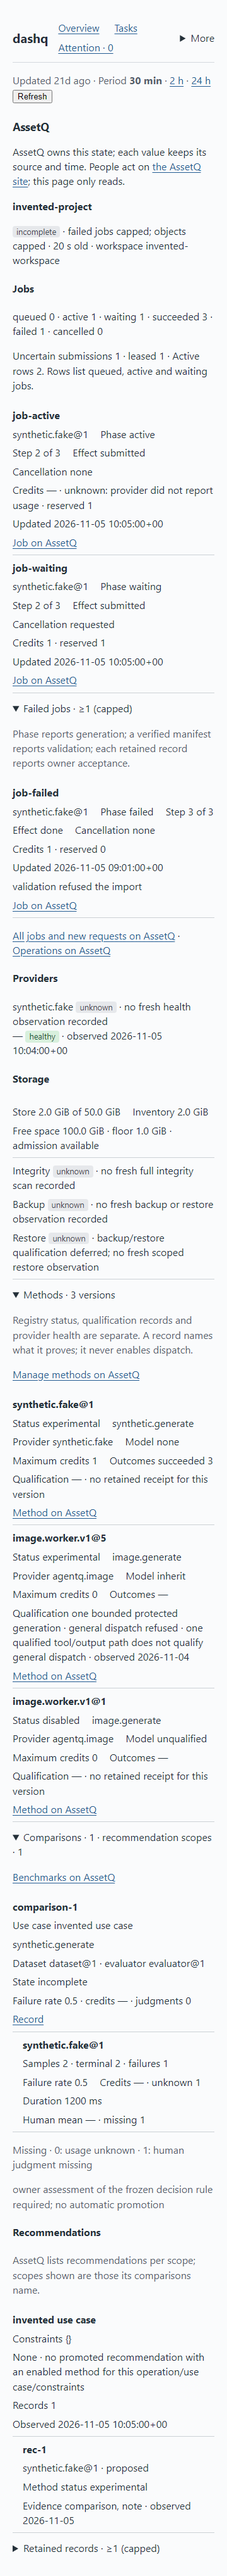
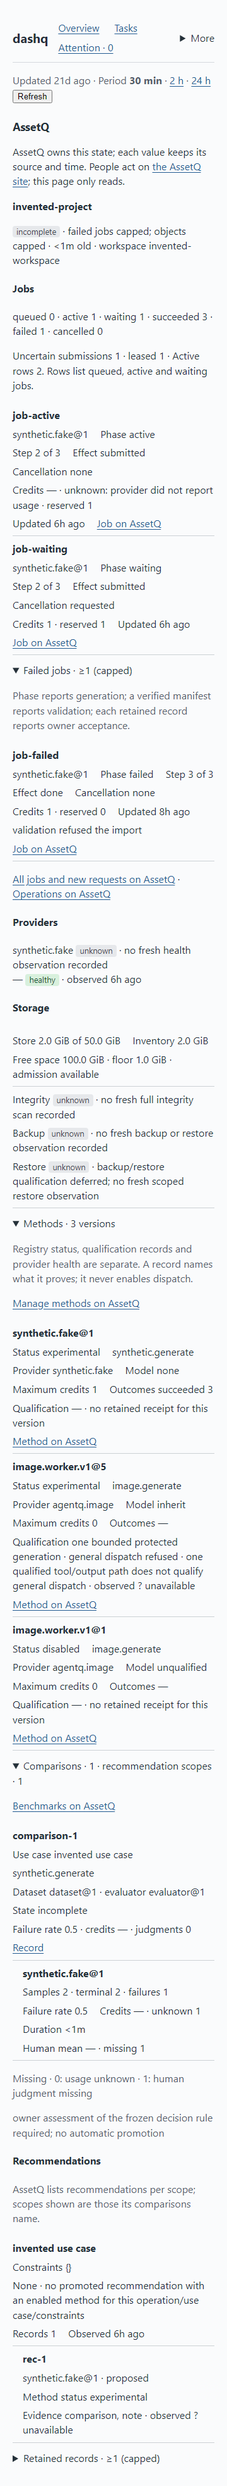
Fix AssetQ coverage counts and shared time display
Keep recommendation scope counts unknown or capped with their comparison coverage. Parse producer timestamps before using the shared relative/exact renderer, preserve unavailable times, and use the common duration format.

Update Pipe provisioning and live-readback evidence; retain metadata-only GET and browser regression checks.

Task: https://github.com/taskqorg/dashq/issues/246

diff --git a/assets/style.css b/assets/style.css
@@ -378,7 +378,6 @@ body[data-view="/assets"] {max-width:1024px;box-sizing:border-box;padding:20px;b
 #assets .asset-sub {padding-left:1em}
 #assets .asset-group {margin:.75em 0}
 #assets summary {cursor:pointer;min-height:24px}
-#assets .asset-receipt:empty {display:none}
 body[data-view="/fleet"] #fleet {display:block}
 #fleet {overflow-wrap:anywhere}
 #fleet .fleet-row {display:flex;flex-wrap:wrap;gap:.4em 1.2em;padding:.5em 0;border-bottom:1px solid light-dark(#ccd1d5,#555e66);font-variant-numeric:tabular-nums}

diff --git a/src/assetq.rs b/src/assetq.rs
@@ -344,11 +344,45 @@ fn bytes(v: &Value) -> String {
     })
 }
 
-fn state(v: &Value) -> String {
+/// AssetQ sends PostgreSQL timestamptz text; keep its offset and discard only fractional seconds.
+fn timestamp(v: &Value) -> Option<u64> {
+    if let Some(t) = crate::findings::time(v) { return Some(t) }
+    let s = v.as_str()?;
+    let head = s.get(..19)?.replace(' ', "T");
+    let t = source::iso_secs(&head)?;
+    if source::iso(t).get(..19)? != head { return None }
+    let mut tail = s.get(19..)?;
+    if let Some(fraction) = tail.strip_prefix('.') {
+        let n = fraction.bytes().take_while(u8::is_ascii_digit).count();
+        if n == 0 { return None }
+        tail = &fraction[n..];
+    }
+    let offset = if tail == "Z" { 0 } else {
+        if !matches!(tail.len(), 3 | 6) || !matches!(tail.get(..1)?, "+" | "-") { return None }
+        if !tail[1..].bytes().all(|b| b.is_ascii_digit() || b == b':') { return None }
+        let h = tail.get(1..3)?.parse::<i64>().ok()?;
+        let m = if tail.len() == 6 {
+            if tail.get(3..4)? != ":" { return None }
+            tail.get(4..6)?.parse::<i64>().ok()?
+        } else { 0 };
+        if !(0..=23).contains(&h) || !(0..=59).contains(&m) { return None }
+        (h * 3600 + m * 60) * if tail.starts_with('-') { -1 } else { 1 }
+    };
+    u64::try_from(i64::try_from(t).ok()? - offset).ok()
+}
+
+fn stamp(v: &Value, now: u64) -> String {
+    match timestamp(v) {
+        Some(t) => format!("<time data-at=\"{t}\">{}</time>", esc(&crate::page::at(&json!(t), now))),
+        None => esc(&crate::page::at(&Value::Null, now)),
+    }
+}
+
+fn state(v: &Value, now: u64) -> String {
     let s = v["state"].as_str().unwrap_or("unknown");
     let class = match s { "ok" | "healthy" | "observed" | "verified" => "ok", "unknown" | "stale" | "unconfirmed" | "incomplete" => "unknown", _ => "warn" };
     let reason = v["reason"].as_str().map_or(String::new(), |r| format!(" · {}", esc(r)));
-    let at = v["observed_at"].as_str().map_or(String::new(), |t| format!(" · observed {}", esc(t)));
+    let at = if v["observed_at"].is_null() { String::new() } else { format!(" · observed {}", stamp(&v["observed_at"], now)) };
     format!("<span class=\"s {class}\">{}</span>{reason}{at}", esc(s))
 }
 
@@ -356,37 +390,37 @@ fn link(href: &Value, label: &str) -> String {
     href.as_str().filter(|h| h.starts_with("https://")).map_or(String::new(), |h| format!("<a href=\"{}\" rel=\"noreferrer\">{label}</a>", esc(h)))
 }
 
-fn job_rows(w: &mut String, p: &Value) {
+fn job_rows(w: &mut String, p: &Value, now: u64) {
     let rows = p["jobs"]["rows"].as_array().cloned().unwrap_or_default();
     if rows.is_empty() {
         let text = if p["source"]["state"] == "ok" { "No queued, active or waiting jobs." } else { "Active jobs unknown · see the source state above." };
         let _ = write!(w, "<p>{text}</p>");
     }
-    for j in &rows { job_row(w, j); }
+    for j in &rows { job_row(w, j, now); }
 }
 
-fn job_row(w: &mut String, j: &Value) {
+fn job_row(w: &mut String, j: &Value, now: u64) {
     let steps = j["steps"].as_array().map_or(0, Vec::len);
     let step = j["step"].as_u64().map_or_else(|| "—".to_string(), |s| format!("{} of {steps}", s + 1));
     let usage = if j["usage"]["credits"].is_null() { format!("— · unknown: {}", j["usage"]["unknown_reason"].as_str().map_or("not reported".into(), esc)) } else { val(&j["usage"]["credits"]) };
-    let _ = write!(w, "<div class=\"asset-row\"><strong>{}</strong><span>{}</span><span>Phase {}</span><span>Step {step}</span><span>Effect {}</span><span>Cancellation {}</span><span>Credits {usage} · reserved {}</span><span>Updated {}</span>", val(&j["id"]), val(&j["method"]), val(&j["phase"]), val(&j["effect"]), val(&j["cancel"]), val(&j["reserved_credits"]), val(&j["updated_at"]));
+    let _ = write!(w, "<div class=\"asset-row\"><strong>{}</strong><span>{}</span><span>Phase {}</span><span>Step {step}</span><span>Effect {}</span><span>Cancellation {}</span><span>Credits {usage} · reserved {}</span><span>Updated {}</span>", val(&j["id"]), val(&j["method"]), val(&j["phase"]), val(&j["effect"]), val(&j["cancel"]), val(&j["reserved_credits"]), stamp(&j["updated_at"], now));
     if !j["reason"].is_null() { let _ = write!(w, "<span>{}</span>", val(&j["reason"])); }
     let _ = write!(w, "<span>{}</span>", link(&j["links"]["record"], "Job on AssetQ"));
     w.push_str("</div>");
 }
 
 /// Failed work with AssetQ's bounded reason; generation, validation and owner acceptance stay separate (AssetQ status `states`).
-fn failed_rows(w: &mut String, p: &Value) {
+fn failed_rows(w: &mut String, p: &Value, now: u64) {
     let rows = p["jobs"]["failed"].as_array().cloned().unwrap_or_default();
     let _ = write!(w, "<details class=\"asset-group\" id=\"assetq-{0}-failed\"><summary id=\"assetq-{0}-failed-summary\">Failed jobs · {1}</summary><p class=\"note\">Phase reports generation; a verified manifest reports validation; each retained record reports owner acceptance.</p>", val(&p["project"]), count(rows.len(), p["coverage"]["failed"].as_str().unwrap_or("unknown")));
     if rows.is_empty() {
         let _ = write!(w, "<p>{}</p>", if p["source"]["state"] == "ok" { "No failed jobs." } else { "Failed jobs unknown · see the source state above." });
     }
-    for j in &rows { job_row(w, j); }
+    for j in &rows { job_row(w, j, now); }
     w.push_str("</details>");
 }
 
-fn storage(w: &mut String, p: &Value) {
+fn storage(w: &mut String, p: &Value, now: u64) {
     let s = &p["store"];
     let f = &s["free_space"];
     let i = &s["physical_inventory"];
@@ -394,10 +428,10 @@ fn storage(w: &mut String, p: &Value) {
         bytes(&s["used_bytes"]), bytes(&s["quota_bytes"]), if s["full"] == true { " · full" } else { "" },
         bytes(&i["object_bytes"]), i["reason"].as_str().map_or(String::new(), |r| format!(" · unknown: {}", esc(r))),
         bytes(&f["available_bytes"]), bytes(&f["floor_bytes"]), val(&f["admission"]), f["reason"].as_str().map_or(String::new(), |r| format!(" · unknown: {}", esc(r))),
-        state(&p["integrity"]), state(&p["backup"]), state(&p["restore"]));
+        state(&p["integrity"], now), state(&p["backup"], now), state(&p["restore"], now));
 }
 
-fn methods(w: &mut String, p: &Value) {
+fn methods(w: &mut String, p: &Value, now: u64) {
     let rows = p["methods"].as_array().cloned().unwrap_or_default();
     let _ = write!(w, "<details class=\"asset-group\" id=\"assetq-{0}-methods\"><summary id=\"assetq-{0}-methods-summary\">Methods · {1}{2}</summary>", val(&p["project"]), count(rows.len(), p["coverage"]["methods"].as_str().unwrap_or("unknown")), if p["coverage"]["methods"] == "unknown" { "" } else { " versions" });
     w.push_str("<p class=\"note\">Registry status, qualification records and provider health are separate. A record names what it proves; it never enables dispatch.</p>");
@@ -407,7 +441,7 @@ fn methods(w: &mut String, p: &Value) {
         let _ = write!(w, "<div class=\"asset-row\"><strong>{}</strong><span>Status {}</span><span>{}</span><span>Provider {}</span><span>Model {}</span><span>Maximum credits {}</span><span>Outcomes {}</span>", val(&m["name"]), val(&m["status"]), val(&m["operation"]), val(&m["provider"]), val(&m["model"]), val(&m["max_credits"]), if outcomes.is_empty() { "—".into() } else { outcomes.join(" · ") });
         if m["qualification"].is_object() {
             let q = &m["qualification"];
-            let _ = write!(w, "<span>Qualification {} · general dispatch {} · {} · observed {}</span>", val(&q["scope"]), val(&q["general_dispatch"]), val(&q["reason"]), val(&q["observed_at"]));
+            let _ = write!(w, "<span>Qualification {} · general dispatch {} · {} · observed {}</span>", val(&q["scope"]), val(&q["general_dispatch"]), val(&q["reason"]), stamp(&q["observed_at"], now));
         } else {
             w.push_str("<span>Qualification — · no retained receipt for this version</span>");
         }
@@ -416,16 +450,17 @@ fn methods(w: &mut String, p: &Value) {
     w.push_str("</details>");
 }
 
-fn comparisons(w: &mut String, p: &Value) {
+fn comparisons(w: &mut String, p: &Value, now: u64) {
     let rows = p["comparisons"].as_array().cloned().unwrap_or_default();
     let scopes = p["recommendations"].as_array().cloned().unwrap_or_default();
-    let _ = write!(w, "<details class=\"asset-group\" id=\"assetq-{0}-comparisons\"><summary id=\"assetq-{0}-comparisons-summary\">Comparisons · {1} · recommendation scopes · {2}</summary>", val(&p["project"]), count(rows.len(), p["coverage"]["comparisons"].as_str().unwrap_or("unknown")), scopes.len());
+    let coverage = p["coverage"]["comparisons"].as_str().unwrap_or("unknown");
+    let _ = write!(w, "<details class=\"asset-group\" id=\"assetq-{0}-comparisons\"><summary id=\"assetq-{0}-comparisons-summary\">Comparisons · {1} · recommendation scopes · {2}</summary>", val(&p["project"]), count(rows.len(), coverage), count(scopes.len(), coverage));
     let _ = write!(w, "<p>{}</p>", link(&p["links"]["benchmarks"], "Benchmarks on AssetQ"));
     if rows.is_empty() { let _ = write!(w, "<p>{}</p>", if p["source"]["state"] == "ok" { "No comparisons." } else { "Comparisons unknown · see the source state above." }); }
     for c in &rows {
         let _ = write!(w, "<div class=\"asset-row\"><strong>{}</strong><span>Use case {}</span><span>{}</span><span>Dataset {} · evaluator {}</span><span>State {}{}</span><span>Failure rate {} · credits {} · judgments {}</span><span>{}</span></div>", val(&c["id"]), val(&c["use_case"]), val(&c["operation"]), val(&c["dataset_version"]), val(&c["evaluator_version"]), val(&c["state"]), c["reason"].as_str().map_or(String::new(), |r| format!(" · {}", esc(r))), val(&c["failure_rate"]), val(&c["credits"]), val(&c["human_judgments"]), link(&c["link"], "Record"));
         for m in c["method_metrics"].as_array().into_iter().flatten() {
-            let _ = write!(w, "<div class=\"asset-row asset-sub\"><strong>{}</strong><span>Samples {} · terminal {} · failures {}</span><span>Failure rate {}</span><span>Credits {} · unknown {}</span><span>Duration {} ms</span><span>Human mean {} · missing {}</span></div>", val(&m["method"]), val(&m["samples"]), val(&m["terminal"]), val(&m["failures"]), val(&m["failure_rate"]), val(&m["credits"]), val(&m["usage_unknown"]), val(&m["duration_ms"]), val(&m["human_score_mean"]), val(&m["human_judgments_missing"]));
+            let _ = write!(w, "<div class=\"asset-row asset-sub\"><strong>{}</strong><span>Samples {} · terminal {} · failures {}</span><span>Failure rate {}</span><span>Credits {} · unknown {}</span><span>Duration {}</span><span>Human mean {} · missing {}</span></div>", val(&m["method"]), val(&m["samples"]), val(&m["terminal"]), val(&m["failures"]), val(&m["failure_rate"]), val(&m["credits"]), val(&m["usage_unknown"]), m["duration_ms"].as_u64().map_or("? unavailable".into(), |ms| esc(&crate::data::dur(ms / 1000))), val(&m["human_score_mean"]), val(&m["human_judgments_missing"]));
         }
         let missing: Vec<String> = c["missing_cases"].as_array().into_iter().flatten().map(|m| format!("{}: {}", val(&m["sample"]), val(&m["reason"]))).collect();
         if !missing.is_empty() { let _ = write!(w, "<p class=\"note\">Missing · {}</p>", missing.join(" · ")); }
@@ -436,10 +471,10 @@ fn comparisons(w: &mut String, p: &Value) {
         let current = if s["recommended"].is_object() { format!("Recommended {}", val(&s["recommended"]["method"])) } else { format!("None · {}", s["none_reason"].as_str().or(s["reason"].as_str()).map_or("unknown".into(), esc)) };
         let records = s["records"].as_array().map_or(0, Vec::len);
         let shown = count(records, if s["state"] != "ok" { "unknown" } else if s["records_truncated"] == true { "capped" } else { "complete" });
-        let _ = write!(w, "<div class=\"asset-row\"><strong>{}</strong><span>Constraints {}</span><span>{current}</span><span>Records {shown}</span><span>Observed {}</span></div>", val(&s["use_case"]), val(&s["constraints"]), val(&s["observed_at"]));
+        let _ = write!(w, "<div class=\"asset-row\"><strong>{}</strong><span>Constraints {}</span><span>{current}</span><span>Records {shown}</span><span>Observed {}</span></div>", val(&s["use_case"]), val(&s["constraints"]), stamp(&s["observed_at"], now));
         for r in s["records"].as_array().into_iter().flatten() {
             let keys: Vec<String> = r["evidence_keys"].as_array().into_iter().flatten().map(val).collect();
-            let _ = write!(w, "<div class=\"asset-row asset-sub\"><strong>{}</strong><span>{} · {}</span><span>Method status {}</span><span>Evidence {} · observed {}</span>", val(&r["id"]), val(&r["method"]), val(&r["state"]), val(&r["method_status"]), if keys.is_empty() { "—".into() } else { keys.join(", ") }, val(&r["observed_at"]));
+            let _ = write!(w, "<div class=\"asset-row asset-sub\"><strong>{}</strong><span>{} · {}</span><span>Method status {}</span><span>Evidence {} · observed {}</span>", val(&r["id"]), val(&r["method"]), val(&r["state"]), val(&r["method_status"]), if keys.is_empty() { "—".into() } else { keys.join(", ") }, stamp(&r["observed_at"], now));
             w.push_str("</div>");
         }
     }
@@ -459,25 +494,26 @@ fn records(w: &mut String, p: &Value) {
 
 pub fn render(w: &mut String, assets: &Value) {
     if !assets.is_object() { return }
+    let now = assets["generated_at"].as_u64().unwrap_or(0);
     let origin = &assets["origin"];
     let _ = write!(w, "<section id=\"assets\"><h2>AssetQ</h2><p>AssetQ owns this state; each value keeps its source and time. People act on <a href=\"{}\" rel=\"noreferrer\">the AssetQ site</a>; this page only reads.</p>", val(origin));
     let projects = assets["projects"].as_array().cloned().unwrap_or_default();
     if projects.is_empty() { let _ = write!(w, "<p>Unknown · {}.</p>", val(&assets["source"]["reason"])); }
     for p in projects {
         let src = &p["source"];
-        let age = src["age_s"].as_u64().map_or("age unknown".into(), |a| format!("{a} s old"));
-        let _ = write!(w, "<article id=\"assetq-{0}\"><h3>{0}</h3><p data-assets-state>{1} · {age} · workspace {2}</p>", val(&p["project"]), state(src), val(&p["workspace"]));
+        let age = src["age_s"].as_u64().map_or("age unknown".into(), |a| format!("{} old", esc(&crate::data::dur(a))));
+        let _ = write!(w, "<article id=\"assetq-{0}\"><h3>{0}</h3><p data-assets-state>{1} · {age} · workspace {2}</p>", val(&p["project"]), state(src, now), val(&p["workspace"]));
         if p["revisions"].is_object() {
             let phases = p["jobs"]["by_phase"].as_object().map_or("—".to_string(), |o| ["queued", "active", "waiting", "succeeded", "failed", "cancelled"].iter().map(|k| format!("{k} {}", o.get(*k).map_or("0".into(), val))).collect::<Vec<_>>().join(" · "));
             let _ = write!(w, "<h4>Jobs</h4><p>{phases}</p><p>Uncertain submissions {} · leased {} · Active rows {}. Rows list queued, active and waiting jobs.</p>", val(&p["jobs"]["uncertain_submissions"]), val(&p["jobs"]["leased"]), count(p["jobs"]["rows"].as_array().map_or(0, Vec::len), p["coverage"]["active"].as_str().unwrap_or("unknown")));
-            job_rows(w, &p);
-            failed_rows(w, &p);
+            job_rows(w, &p, now);
+            failed_rows(w, &p, now);
             let _ = write!(w, "<p>{} · {}</p>", link(&p["links"]["jobs"], "All jobs and new requests on AssetQ"), link(&p["links"]["operations"], "Operations on AssetQ"));
-            let providers: Vec<String> = p["providers"].as_array().into_iter().flatten().map(|x| format!("{} {}", val(&x["provider"]), state(x))).collect();
+            let providers: Vec<String> = p["providers"].as_array().into_iter().flatten().map(|x| format!("{} {}", val(&x["provider"]), state(x, now))).collect();
             let _ = write!(w, "<h4>Providers</h4><p>{}</p>", if providers.is_empty() { "Unknown · no provider observations.".to_string() } else { providers.join("<br>") });
-            storage(w, &p);
-            methods(w, &p);
-            comparisons(w, &p);
+            storage(w, &p, now);
+            methods(w, &p, now);
+            comparisons(w, &p, now);
             records(w, &p);
         } else {
             w.push_str("<p>No AssetQ observation yet.</p>");
@@ -608,17 +644,25 @@ pub(crate) mod tests {
         let html = rendered(raw());
         assert!(html.contains("Retained records · ≥1 (capped)"), "objects has a next page");
         assert!(html.contains("Methods · 3 versions"), "a complete list stays exact");
+        assert!(html.contains("recommendation scopes · 1</summary>"));
         assert!(html.contains("Failed jobs · ≥1 (capped)"), "failed has a next page");
         let mut r = raw();
         r["methods"] = json!({"error": "HTTP 500"});
         r["comparisons"] = json!({"error": "timeout"});
+        r["recommendations"] = json!([]);
         let html = rendered(r);
         assert!(html.contains("Methods · — · unknown"), "a failed read is no zero");
         assert!(html.contains("Comparisons · — · unknown"));
+        assert!(html.contains("recommendation scopes · — · unknown"), "unread comparison scopes are unknown");
         // details read for only part of the list: the shown count is a lower bound
         let mut r = raw();
         r["details_skipped"] = json!(true);
-        assert!(rendered(r).contains("Comparisons · ≥1 (capped)"));
+        let html = rendered(r);
+        assert!(html.contains("Comparisons · ≥1 (capped)"));
+        assert!(html.contains("recommendation scopes · ≥1 (capped)"), "skipped comparisons can name more scopes");
+        let mut r = raw();
+        r["comparisons"]["next"] = json!("comparison-1");
+        assert!(rendered(r).contains("recommendation scopes · ≥1 (capped)"));
         // a recommendation scope with truncated records
         let mut r = raw();
         r["recommendations"][0]["records_truncated"] = json!(true);
@@ -627,6 +671,33 @@ pub(crate) mod tests {
         let mut r = raw();
         r["jobs"]["active"]["next"] = json!("job-active");
         assert!(rendered(r).contains("Active rows ≥2 (capped)"));
+    }
+
+    /// D6/specq Time: producer timestamps use the shared relative/exact format on every rendered path.
+    #[test]
+    fn assetq_times_use_shared_format() {
+        let mut r = raw();
+        let producer_time = "2026-11-05 10:05:00.123456+00";
+        let epoch = source::iso_secs("2026-11-05T10:05:00Z").unwrap();
+        r["status"]["providers"][1]["observed_at"] = json!(producer_time);
+        r["methods"]["items"][1]["qualification"]["observed_at"] = json!(producer_time);
+        r["recommendations"][0]["observed_at"] = json!(producer_time);
+        r["recommendations"][0]["records"][0]["observed_at"] = json!(producer_time);
+        r["jobs"]["active"]["items"][0]["updated_at"] = json!(producer_time);
+        for key in ["backup", "restore"] { r["status"][key]["observed_at"] = json!(producer_time); }
+        r["status"]["store"]["integrity"]["observed_at"] = json!(producer_time);
+        let html = rendered(r);
+        assert_eq!(html.matches(&format!("data-at=\"{epoch}\"")).count(), 9, "active/waiting jobs, provider, integrity/backup/restore, qualification, scope and record timestamps");
+        assert!(html.contains("&lt;1m old"), "source age uses the shared duration");
+        assert!(!html.contains(producer_time), "raw PostgreSQL time reached the page");
+        assert!(html.contains("Updated <time") && html.contains("ago (2026-11-05 10:05 UTC)"));
+        assert!(html.contains("Duration &lt;1m"));
+        for value in [json!(epoch), json!("2026-11-05T10:05:00Z"), json!("2026-11-05 15:35:00.999+05:30"), json!("2026-11-05 06:05:00-04")] {
+            assert_eq!(timestamp(&value), Some(epoch), "{value}");
+        }
+        for value in [Value::Null, json!("2026-11-05"), json!("invalid"), json!("2026-02-30 10:05:00+00"), json!("2026-11-05 10:05:00"), json!("2026-11-05 10:05:00.+00"), json!("2026-11-05 10:05:00+25:00")] {
+            assert_eq!(stamp(&value, NOW), "? unavailable", "{value}");
+        }
     }
 
     /// Design States, AssetQ status `states`: a failed job keeps AssetQ's bounded reason, offers no result link,

diff --git a/src/page.rs b/src/page.rs
@@ -41,7 +41,7 @@ pub(crate) fn badge(state: &str, label: &str) -> String {
     format!("<span class=\"s {class}\">{}</span>", esc(label))
 }
 
-fn at(v: &Value, now: u64) -> String {
+pub(crate) fn at(v: &Value, now: u64) -> String {
     crate::findings::time(v).map_or("? unavailable".into(), |a| format!("{} ago ({})", dur(now.saturating_sub(a)), clock(a, now)))
 }
 

diff --git a/docs/design/evidence/assetq/README.md b/docs/design/evidence/assetq/README.md
@@ -11,7 +11,7 @@ The owner withdrew A8 and the four write actions, so A6 needs no AssetQ R9 amend
 | A1 | D28 and the design package precede the code in history. The owner approved the layout and then removed its actions. | None |
 | A2 | `assetq_reads_carry_both_credentials_and_only_get` reads status, jobs, methods, objects, a comparison and its recommendations from an in-process service over real HTTP. An earlier adapter ran against a real local AssetQ, below. | The deployed service |
 | A3 | Superseded by the owner's decision: DashQ has no write. `assetq_reads_carry_both_credentials_and_only_get` sees only GET, `assetq_page_evidence` finds no write control and `tests/assets-browser.cjs` sees no non-GET request. | None |
-| A4 | `assetq_projection_drops_content`, `assetq_unknowns_stay_explicit`, `assetq_capped_counts_read_at_least`, `assetq_failed_jobs_keep_their_reason`, `assetq_read_failures_name_their_reason`, `assetq_view_is_scoped_and_absent_without_config`. | The viewer's own session on the linked pages |
+| A4 | `assetq_projection_drops_content`, `assetq_unknowns_stay_explicit`, `assetq_capped_counts_read_at_least`, `assetq_times_use_shared_format`, `assetq_failed_jobs_keep_their_reason`, `assetq_read_failures_name_their_reason`, `assetq_view_is_scoped_and_absent_without_config`. | The viewer's own session on the linked pages |
 | A5 | `tests/assets-browser.cjs` and the other CI browser suites, restored to `main`'s versions. | `real configured service`: see [PM live readback](#pm-live-readback) |
 | A6 | [Read-back](#read-back-for-a6) below. | Config and credential files on the target |
 | A7 | `selftest_reads_each_assetq_project` proves that selftest reads the configured project. | The run on the target: see [PM live readback](#pm-live-readback) |
@@ -19,7 +19,7 @@ The owner withdrew A8 and the four write actions, so A6 needs no AssetQ R9 amend
 
 ## Read-back for A6
 
-Read from the Windows worker through the public origin, with the agent's Access credential where named. No credential, grant or configuration was created or changed.
+The following table records the earlier Windows worker readback through the public origin, with the agent's Access credential where named. The fresh Pipe readback below supersedes its origin-move observation. No credential, grant or configuration was created or changed.
 
 | Input | Observed | State |
 |---|---|---|
@@ -30,6 +30,13 @@ Read from the Windows worker through the public origin, with the agent's Access 
 | `assetq` config, credential files | The Windows worker has no SSH access to the target. `https://dash.ufobe.com` runs a release without this feature: `/assets` reads 404 and `/data` has no `assets` key. | Unknown: the PM provisions them |
 | Origin move | `pipe.ufobe.com` does not answer yet; `assets.ufobe.com` does. [assetq#51](https://github.com/taskqorg/assetq/issues/51) holds the move. | See the [design](../../assetq-summary.md#provisioning) |
 
+### Pipe readback, 2026-11-05 17:01 UTC
+
+- `assetq#7` and `assetq#25` are closed. `assetq#51` remains open, but `GET https://pipe.ufobe.com/v1/health` through Access returned 200 with `service: up`, `database: ok`, version `0.1.0`.
+- Pipe's current R9 and `docs/method-evaluation.md` allow DashQ summary metadata and links, with no generation authority. The compatibility `assetq.md` points to `pipe.md`; the PM's token command is now `pipe token <project> --role member`.
+- `GET https://dash.ufobe.com/assets` through Access returned 404. A5 real configured service and A7 remain unverified: this feature needs the merged release and PM-provisioned project Bearer/config files. The worker created no configuration, credential or grant and made no write request.
+- Every adapter URL and browser link derives from `assetq.base_url`. The configured-origin fixture uses an invented host, independent of either production host name.
+
 ## Real local service
 
 An earlier revision of this adapter ran against AssetQ source `47f2cbd18c94bdbc6070696f767e6c66d8601640`, built unchanged, with a disposable PostgreSQL 18 cluster on loopback and the synthetic provider. It read real registry rows, `general dispatch refused` qualification records, unknown backup and restore, and an `incomplete` comparison with `job not terminal`, `usage unknown`, null credits and no winner. Neither prompt nor dataset case text reached `/data` or the page.
@@ -38,6 +45,8 @@ That run predates the failed-jobs read and the Access headers, and it used the s
 
 ## Defects found by these checks
 
+- R2/D6, review of `ac4bddb`: recommendation scopes showed an exact count after a failed or capped comparisons read. Before: `assetq_capped_counts_read_at_least` failed on the unknown-scopes assertion. After: scope counts use comparison coverage, retaining exact counts only for complete reads and lower bounds for pagination or skipped details; the same check passes.
+- D6/specq Time, review of `ac4bddb`: producer times and source ages bypassed the shared format. Before: `assetq_times_use_shared_format` failed because none of the producer times used the common timestamp markup. After: jobs, provider/integrity/backup/restore observations, qualifications, recommendation scopes and records use shared relative/exact time, including PostgreSQL fractions and offsets; invalid times remain `? unavailable`. Durations and source ages use the shared duration formatter. The same check passes; browser checks cover JavaScript and server-only output.
 - Before: a deployed read could not pass Access; the live origin answered a Bearer-only request with 302. After: `assetq_reads_carry_both_credentials_and_only_get` sends both credentials on every read, and without the token the reason is `redirected to a sign-in`. Protection kept: `assetq_read_failures_name_their_reason`.
 - Before: page links named the machine `/v1` paths, which AssetQ's service page says take no browser session, so a person following one would read a refusal. After: links open the site's published browser paths, and `assetq_projection_drops_content` and `tests/assets-browser.cjs` fail on a machine path.
 - Before: on `main`'s D4 rule, the view's read would have made a browser request wait for AssetQ. After: the read uses the background refresh, and `assetq_view_is_scoped_and_absent_without_config` reads `refresh in progress` on a cold cache.
@@ -47,7 +56,9 @@ That run predates the failed-jobs read and the Access headers, and it used the s
 
 `tests/assets-browser.cjs` covers eight cells (1280/360 px, light/dark, 16/24 px) on the actual Rust HTML. It checks visibility, selected navigation, unknown text, no content leak, no overflow, no write control, no non-GET request, links only to the AssetQ site and never a machine path, an open disclosure across refresh, failed-refresh retention, failed-job rows, the page without JavaScript and the not-configured page across a refresh.
 
-The forward-auth guard was not exercised here.
+The browser fixture does not exercise the forward-auth guard. The fresh origin probe above passed Access for the health route, but it does not qualify the deployed `/assets` view.
+
+Review correction checks on Windows: `cargo test --locked assetq_` passed 11 tests with the live read ignored; `node tests/assets-browser.cjs` passed all eight cells, including relative time and exact-time hover text with JavaScript and relative/exact output without JavaScript. The two existing layout images were refreshed and inspected; the approved structure is unchanged. The task result records the final candidate SHA and full project checks.
 
 ## PM live readback
 

diff --git a/docs/design/assetq-summary.md b/docs/design/assetq-summary.md
@@ -27,7 +27,7 @@ Off by default: without the `assetq` key there is no read, navigation entry or p
 Add this key to `<install>/config.json`, with the service user as the only reader of each named file (mode 0600):
 
 ```json
-{"assetq": {"base_url": "https://assets.ufobe.com",
+{"assetq": {"base_url": "https://pipe.ufobe.com",
   "access_client_id": "<install>/assetq/access-client-id",
   "access_client_secret": "<install>/assetq/access-client-secret",
   "projects": {"<AssetQ project id>": {"workspace": "<D11 workspace>",
@@ -37,7 +37,7 @@ Add this key to `<install>/config.json`, with the service user as the only reade
 | File or key | Holds | Source |
 |---|---|---|
 | `access_client_id`, `access_client_secret` | One Cloudflare Access service token for the AssetQ site: its client ID and client secret, one value per file | A new service token, allowed by a Service Auth policy on the Access application of `base_url` |
-| `read_token`, one per project | One AssetQ `member` Bearer token for that project | `assetq token <project> --role member` |
+| `read_token`, one per project | One Pipe `member` Bearer token for that project | `pipe token <project> --role member` |
 | `workspace` | The D11 workspace whose members may see that project | The existing workspace |
 | `base_url` | The AssetQ origin, `https://` with no path; every read and link derives from it | The origin that answers at provisioning; the read follows no redirect |
 
@@ -45,7 +45,7 @@ The two Access keys come together or not at all; one alone refuses the config. W
 
 AssetQ has no read-only role, so `member` is the smallest grant it offers. DashQ's GET-only read adapter keeps reading from mutating: it has no code path that sends another method to AssetQ. Access decides whether a request reaches AssetQ; the Bearer token decides what AssetQ returns. Neither value reaches the browser, `/data`, logs, URLs or `report` (R7): the headers go to `curl` on stdin.
 
-[assetq#51](https://github.com/taskqorg/assetq/issues/51) moves the service to `https://pipe.ufobe.com`, and Pipe's contract then refuses requests that name `assets.ufobe.com`. When that move happens, change `base_url` and allow the service token on the new origin's Access application; the Bearer tokens stay valid.
+[assetq#51](https://github.com/taskqorg/assetq/issues/51) moves the service to `https://pipe.ufobe.com`; Pipe's contract refuses requests that name `assets.ufobe.com`. Configure `base_url` for the provisioned origin and allow the service token on that origin's Access application; the Bearer tokens stay valid. No origin is hardcoded in the adapter.
 
 Config errors name the bad key, never its value (D2). An unreadable credential file reads `credential unreadable`.
 
